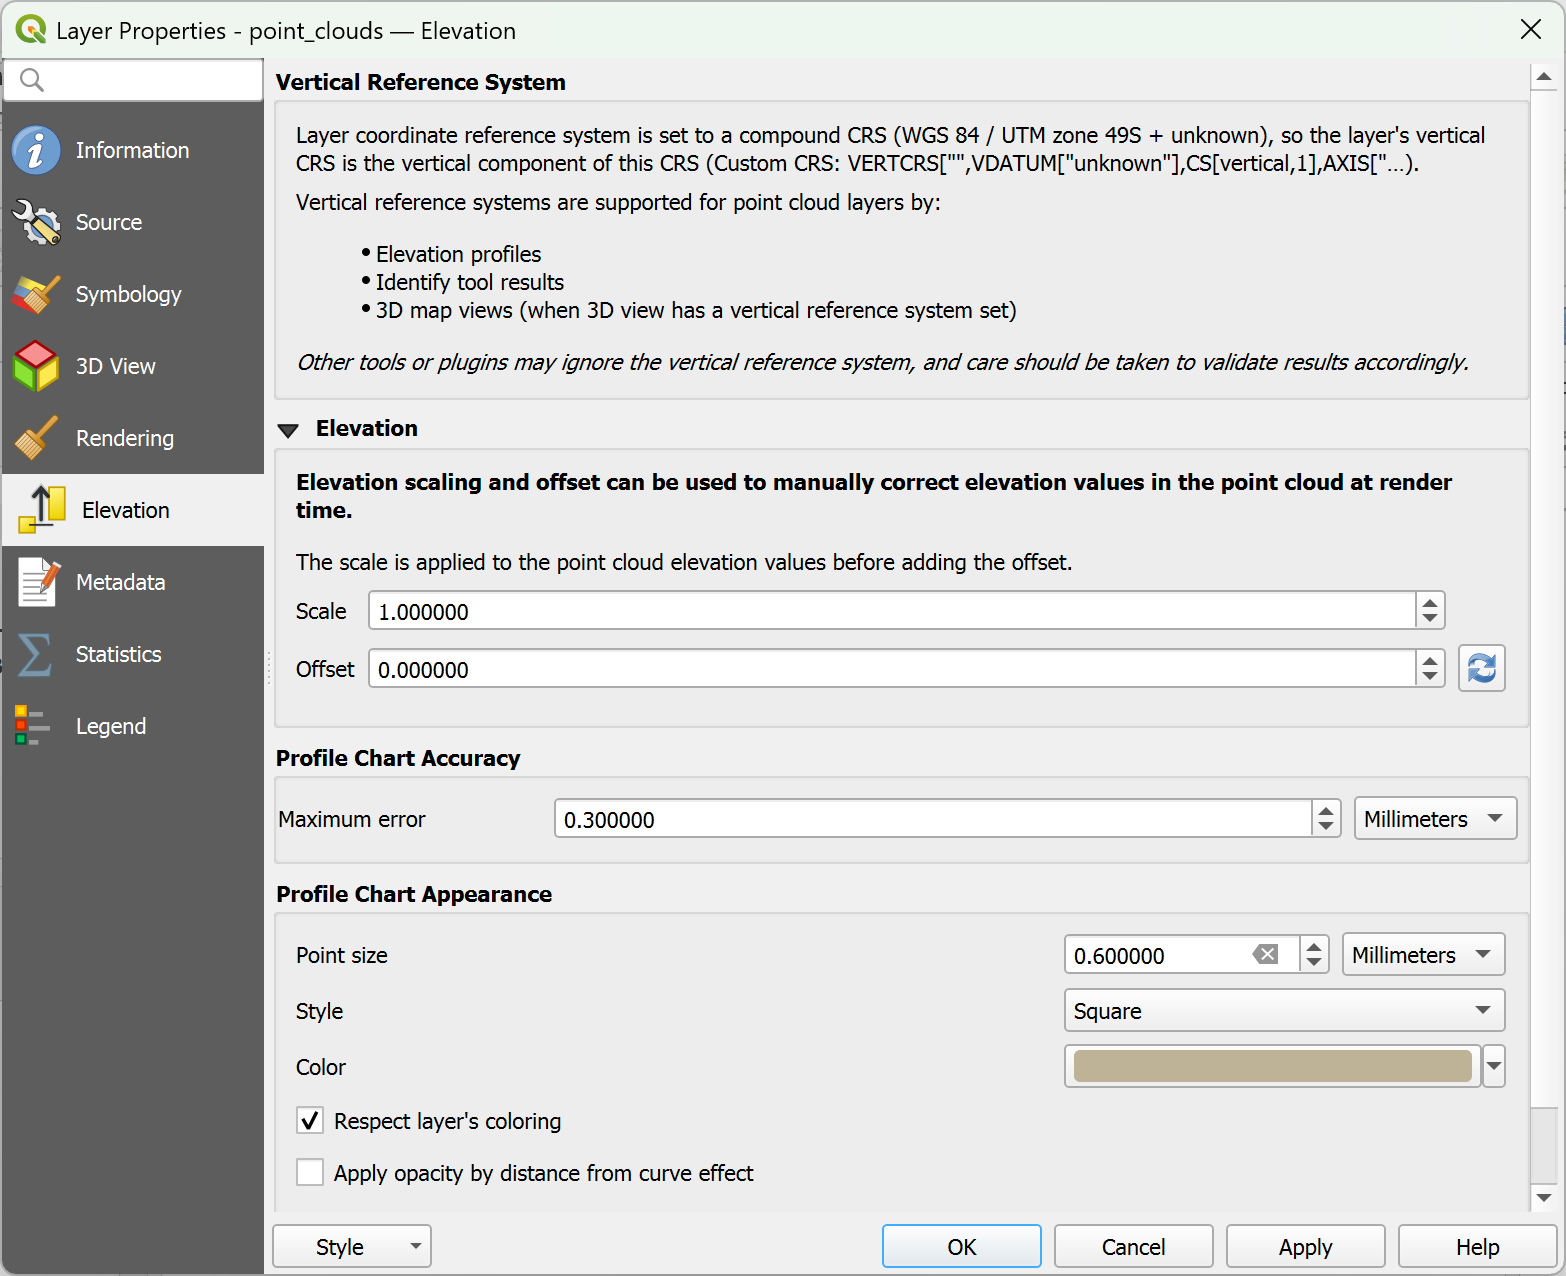
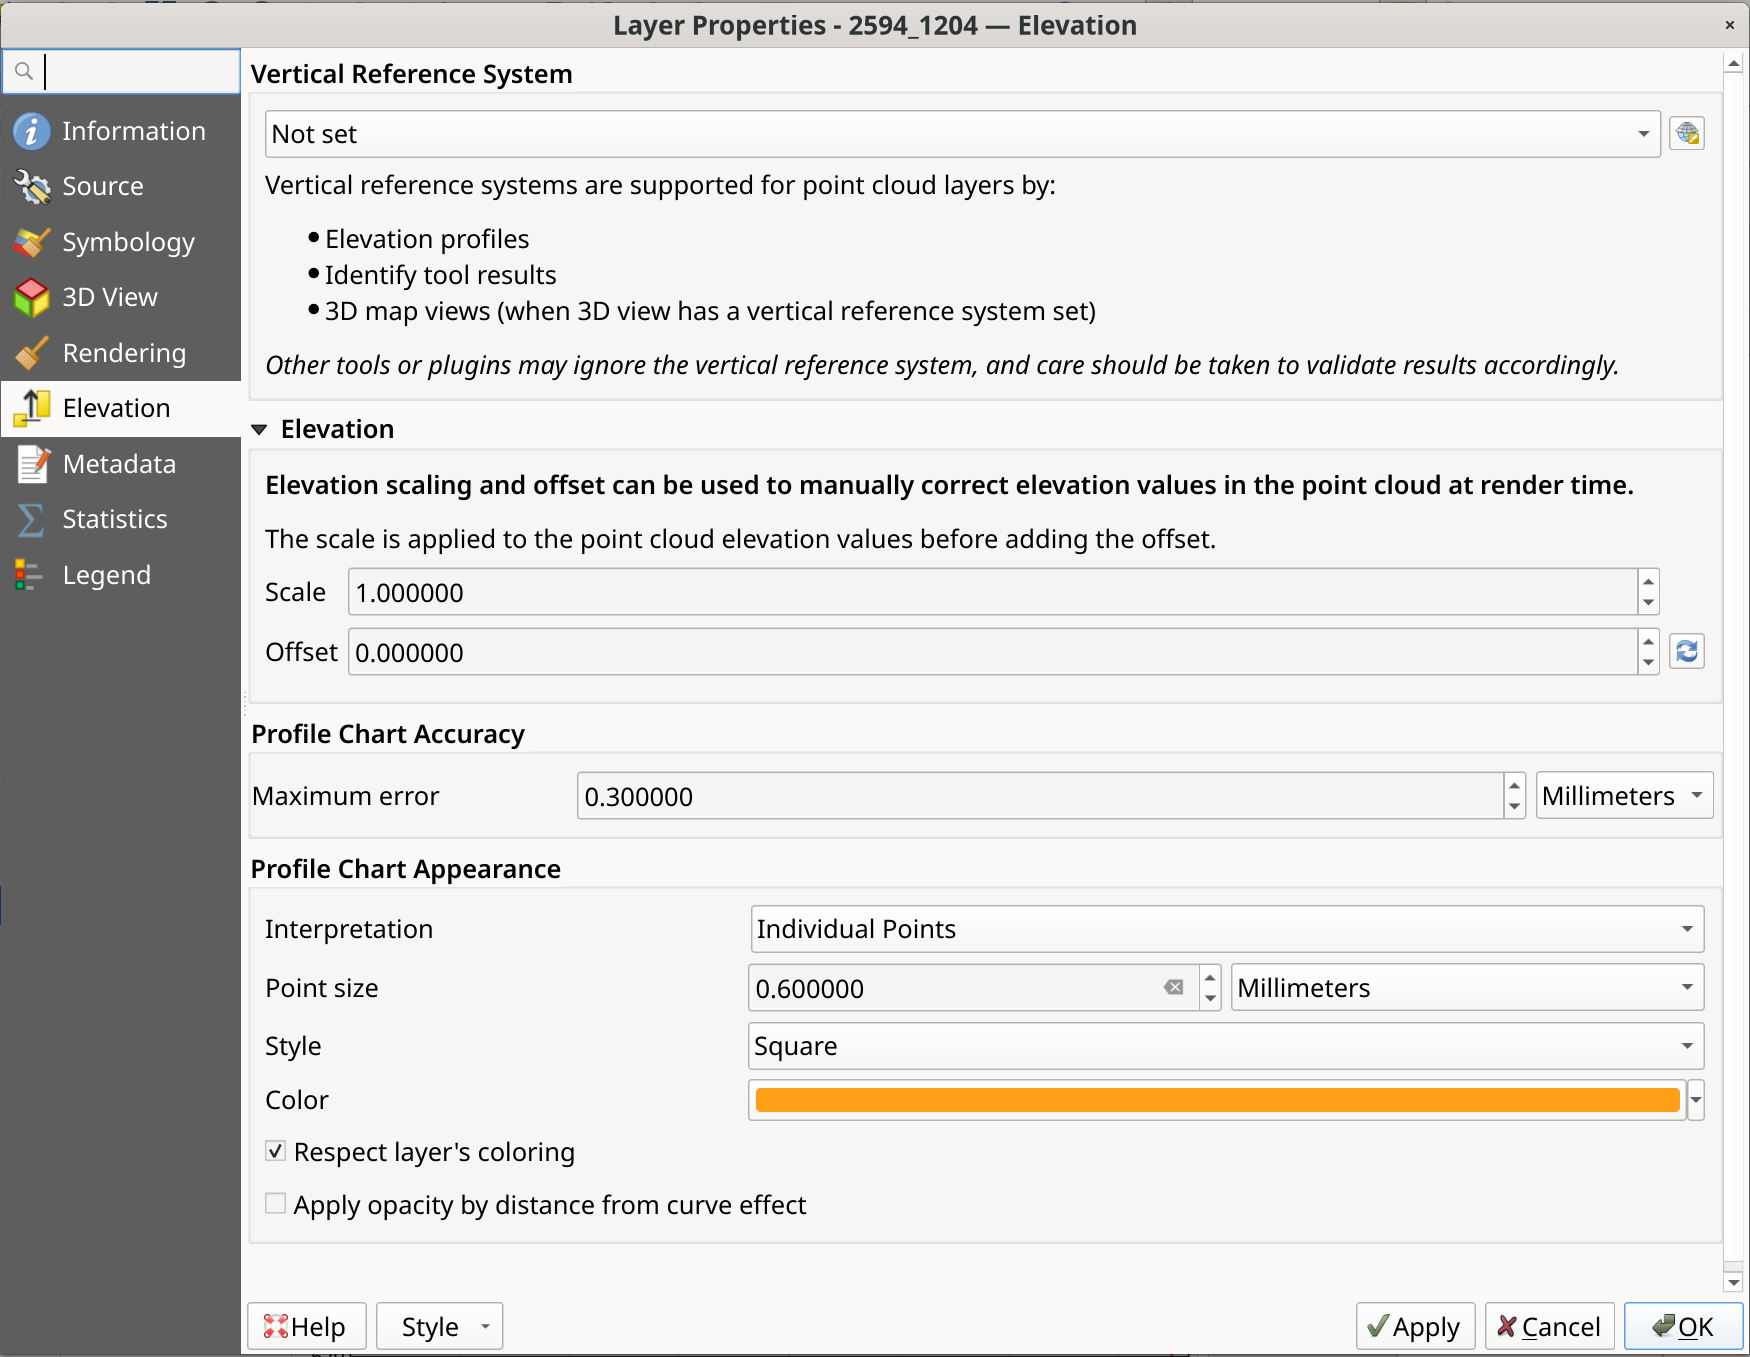
Elevation profile - point cloud render

Changed region(s): [[0.0, 0.0, 1.0, 1.0], [0.0613, 0.5502, 0.092, 0.5807], [0.0, 0.9781, 0.0307, 1.0]]

diff --git a/docs/user_manual/working_with_point_clouds/point_clouds.rst b/docs/user_manual/working_with_point_clouds/point_clouds.rst
@@ -664,6 +664,19 @@ There are following options:
   Larger values result in a faster generation with less points included.
 * Under :guilabel:`Profile Chart Appearance`, you can control the point display:
 
+  * :guilabel:`Interpretation`: Defines how elevation values are derived for
+    the profile:
+
+    * :guilabel:`Individual points`: Uses the original Z values from point
+      cloud points falling within the selection zone (selection curve plus
+      tolerance buffer).
+    * :guilabel:`Triangulated surface`: Generates a continuous elevation line
+      by performing a Delaunay triangulation on points within the selection
+      zone and interpolating Z values from the triangles intersecting the
+      midpoint of the selection curve. The result depends on the number and
+      distribution of included points; increasing the :guilabel:`Tolerance`, under the
+      :ref:`Elevation profile <label_elevation_profile_view>` |options| :sup:`Options`, may improve
+      the output.
   * :guilabel:`Point size`: the size to render the points with, in supported units
     (millimeters, map units, pixels, ...)
   * :guilabel:`Style`: whether to render the points as :guilabel:`Circle` or :guilabel:`Square`
@@ -921,6 +934,8 @@ After setting the attribute, value, and optional filter, digitize a selection us
    :width: 1.5em
 .. |multibandColor| image:: /static/common/multibandColor.png
    :width: 1.5em
+.. |options| image:: /static/common/mActionOptions.png
+   :width: 1em
 .. |paletted| image:: /static/common/paletted.png
    :width: 1.5em
 .. |pointCloudExtent| image:: /static/common/pointCloudExtent.png
